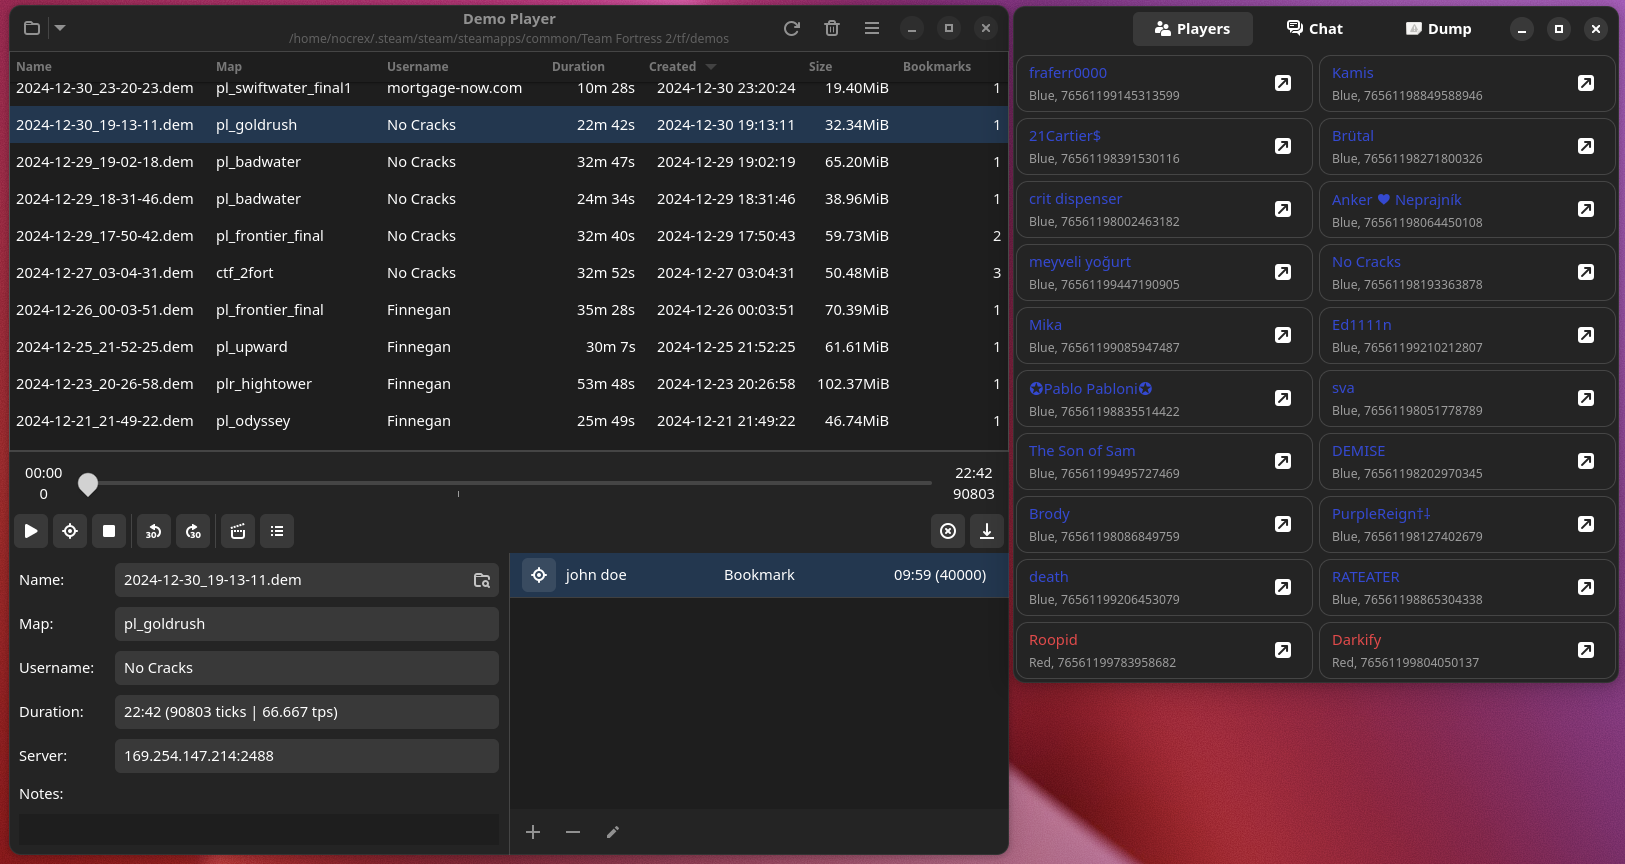
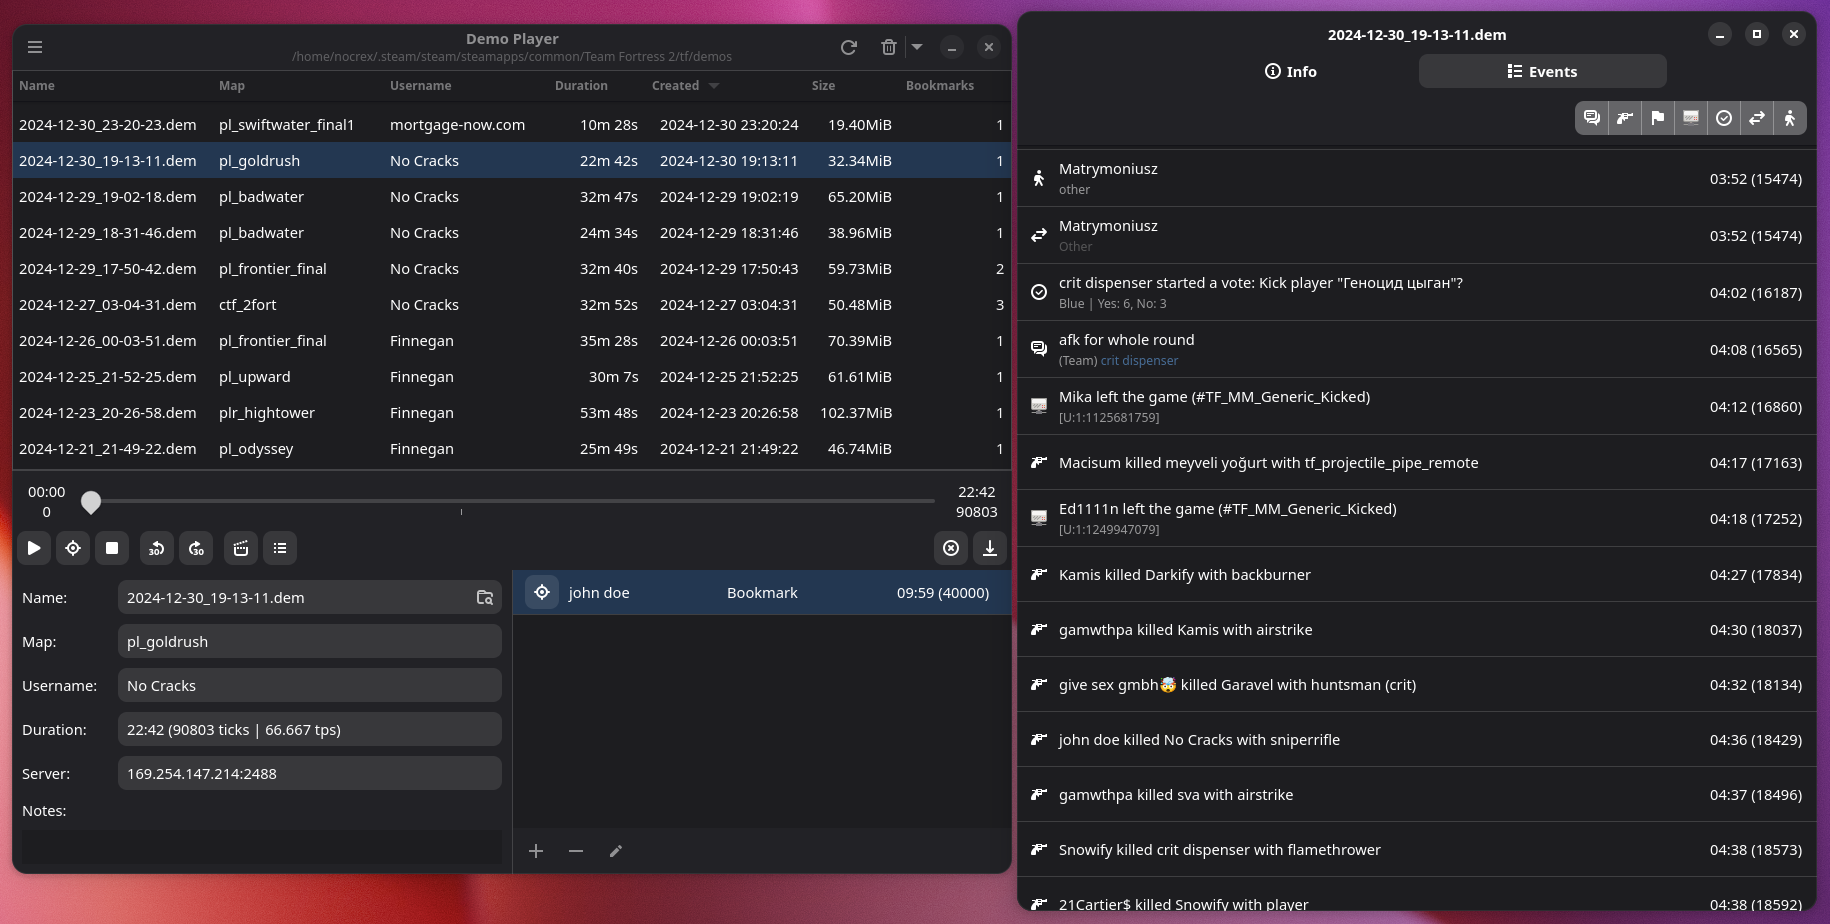
Update README

Changed region(s): [[0.0, 0.0, 1.0, 1.0], [0.7692, 0.0938, 0.8, 0.125]]

diff --git a/README.md b/README.md
@@ -1,7 +1,7 @@
 <img src="data/logo.svg" height=80/>
 
 # TF2 Demo Player
-This is an in-development application for managing and playing back TF2 demos, though it may work with other source games aswell.
+This is an application for managing and playing back TF2 demos.
 
 ![](images/ss1.png)
 
@@ -13,7 +13,7 @@ This is an in-development application for managing and playing back TF2 demos, t
     + Skip to timestamp/bookmark
 + Add descriptions/notes to demos
 + Convert demos to replays with acurrate metadata
-+ Parse demos and display players and chat messages (with more stuff to be added soon)
++ Parse demos and display players, chat messages, kills, votes and some other stuff.
 
 ## Usage
 To be able to use the playback functions of the app TF2 needs to be configured to enable client rcon.
@@ -34,3 +34,5 @@ Once the required libraries are installed, building should be as easy as typing
 cargo build
 ```
 in the project root.
+
+On windows the easiest way to build it is using MSYS2, by installing the mingw versions of gtk4 and libadwaita there and then running `package_win.sh` within it. This produces a "pack" folder that contains all the files needed for the program to run outside of msys.
